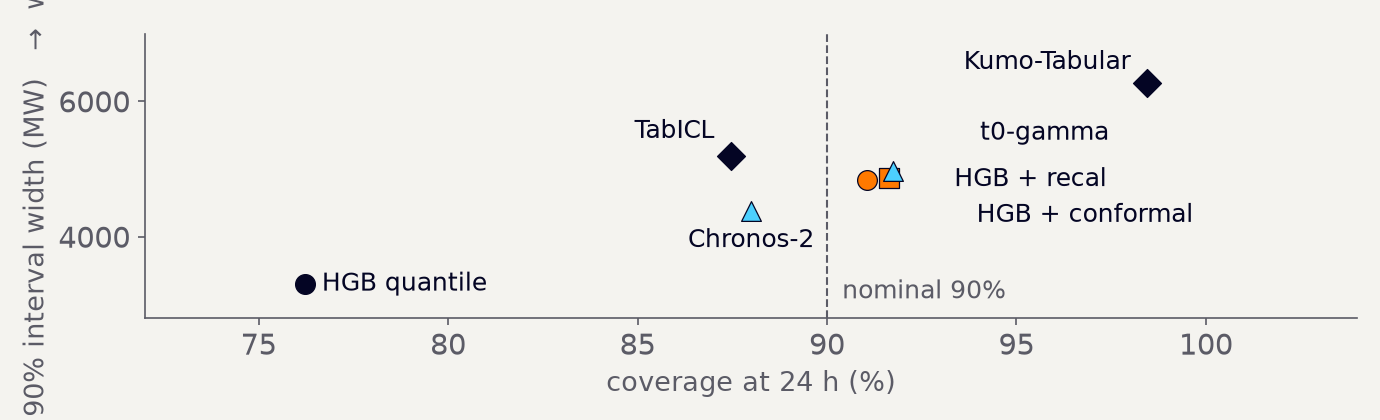
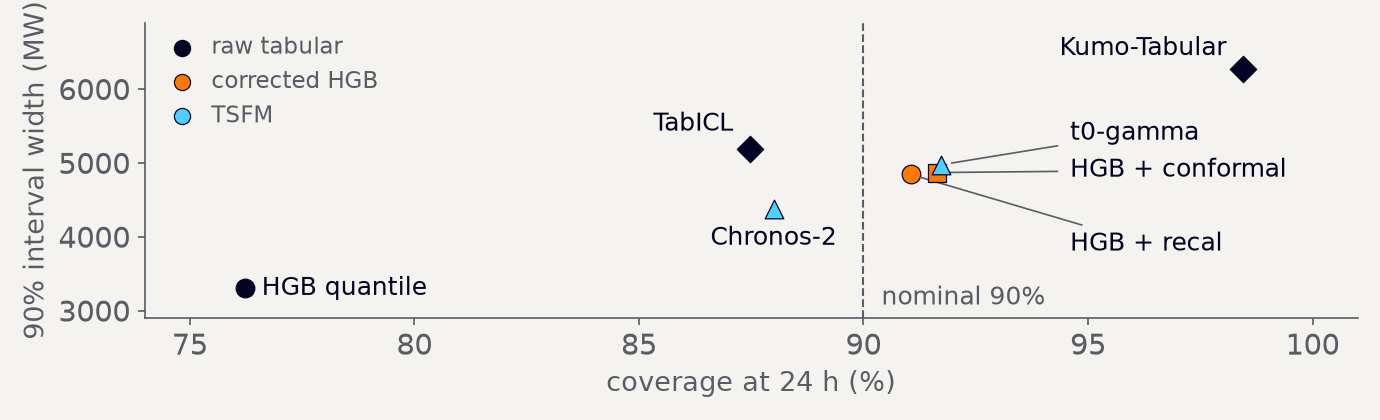
Coverage vs width plot: colour key, leader lines for the 91% cluster, readable y label

diff --git a/scripts/make_prob_forecast_figures.py b/scripts/make_prob_forecast_figures.py
@@ -131,18 +131,19 @@ COVERAGE_VS_WIDTH = (
 _LABEL_OFFSET = {
     "HGB quantile": (8, 0),
     "Chronos-2": (0, -14),
-    "HGB + recal": (42, 0),
-    "HGB + conformal": (42, -18),
-    "t0-gamma": (42, 18),
     "TabICL": (-8, 12),
     "Kumo-Tabular": (-8, 10),
+}
+# the 91% cluster gets labels in free space on the right, joined by leader lines
+# (data coordinates: coverage %, width MW), stacked in the same order as the points
+_LABEL_AT = {
+    "t0-gamma": (94.6, 5400),
+    "HGB + conformal": (94.6, 4900),
+    "HGB + recal": (94.6, 3900),
 }
 _LABEL_HA = {
     "HGB quantile": "left",
     "Chronos-2": "center",
-    "HGB + recal": "left",
-    "HGB + conformal": "left",
-    "t0-gamma": "left",
     "TabICL": "right",
     "Kumo-Tabular": "right",
 }
@@ -155,7 +156,20 @@ def plot_coverage_vs_width(path: Path, dpi: int) -> None:
     ax.axvline(90, color=GRAY, lw=1, ls="--")
     ax.text(90.4, 3000, "nominal 90%", color=GRAY, fontsize=12, va="bottom")
     for name, width, coverage, color, marker in COVERAGE_VS_WIDTH:
-        ax.scatter([coverage], [width], s=90, color=color, marker=marker, zorder=3, edgecolors=BLUE, linewidths=0.6)
+        ax.scatter([coverage], [width], s=80, color=color, marker=marker, zorder=3, edgecolors=BLUE, linewidths=0.6)
+        if name in _LABEL_AT:
+            ax.annotate(
+                name,
+                (coverage, width),
+                xytext=_LABEL_AT[name],
+                textcoords="data",
+                ha="left",
+                va="center",
+                fontsize=12,
+                color=BLUE,
+                arrowprops=dict(arrowstyle="-", color=GRAY, lw=0.8, shrinkA=4, shrinkB=5),
+            )
+            continue
         dx, dy = _LABEL_OFFSET[name]
         ax.annotate(
             name,
@@ -167,10 +181,16 @@ def plot_coverage_vs_width(path: Path, dpi: int) -> None:
             fontsize=12,
             color=BLUE,
         )
-    ax.set_xlim(72, 104)
-    ax.set_ylim(2800, 7000)
+    # colour key: tabular models are navy, corrected HGB orange, TSFMs light blue
+    for label, color in (("raw tabular", BLUE), ("corrected HGB", ORANGE), ("TSFM", LIGHT_BLUE)):
+        ax.scatter([], [], s=60, color=color, marker="o", edgecolors=BLUE, linewidths=0.6, label=label)
+    legend = ax.legend(loc="upper left", frameon=False, fontsize=11, handletextpad=0.3, borderaxespad=0.2)
+    for text in legend.get_texts():
+        text.set_color(GRAY)
+    ax.set_xlim(74, 101)
+    ax.set_ylim(2900, 6900)
     ax.set_xlabel("coverage at 24 h (%)", color=GRAY, fontsize=13)
-    ax.set_ylabel("90% interval width (MW)   →  wider", color=GRAY, fontsize=13)
+    ax.set_ylabel("90% interval width (MW)", color=GRAY, fontsize=13)
     fig.tight_layout()
     fig.savefig(path, dpi=dpi, facecolor=BEIGE)
     plt.close(fig)
